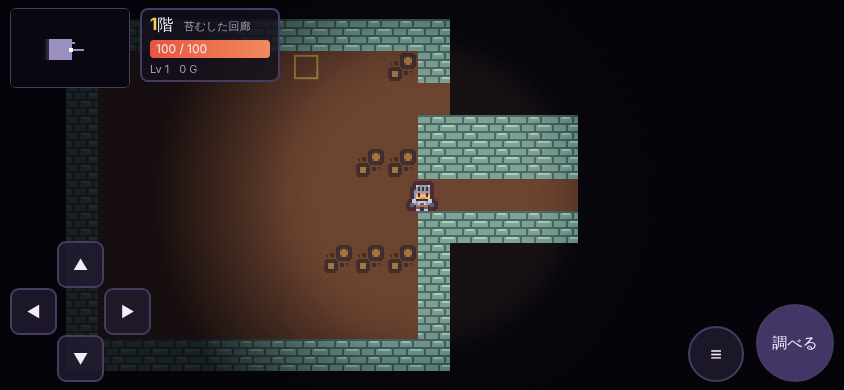
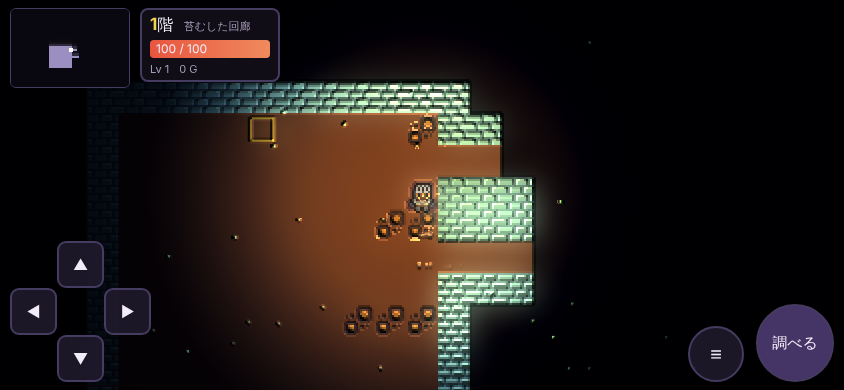
v33：画面の質感アップ（光と影の凹凸・光のにじみ・地域ごとの空気の粒・歩くほこり・お宝のきらめき）。演出「少なめ」と重い端末では自動で切る
Claude-Session: https://claude.ai/code/session_01Sd1PUqjmfoFVwLqDungXeB

diff --git a/js/ui.js b/js/ui.js
@@ -195,7 +195,7 @@ function settings(from) {
 document.addEventListener('input', e => { const k = e.target.dataset && e.target.dataset.set; if (!k) return; opt[k] = (+e.target.value) / 100; opt.sound = true; saveOpt(); if (k === 'bgm' && MUS.el) MUS.el.volume = bgmVol(); if (k === 'bgm' && !MUS.el) { MUS.cur = null; musicTick(); } });
 document.addEventListener('change', e => { if (e.target.dataset && e.target.dataset.setlang) { L10N.lang = opt.lang = e.target.value; saveOpt(); location.reload(); } });
 function fxLow() { return opt.fx === 'low'; }
-function applyOpt() { document.body.classList.toggle('lowfx', fxLow()); document.body.classList.toggle('noshake', opt.shake === false); }
+function applyOpt() { if (window.FX) FX.on = FX.ok && !fxLow() && !FX.auto; document.body.classList.toggle('lowfx', fxLow()); document.body.classList.toggle('noshake', opt.shake === false); }
 
 /* ---------- はじめの案内（行商人がしゃべる。くどくならないように1回ずつ） ---------- */
 const TUT = {
@@ -373,7 +373,7 @@ function titleAnim(now) {
 }
 function render(now) {
   requestAnimationFrame(render);
-  if (!run) { if (TB.on && ui.scr !== 'ending') titleAnim(now); return; }
+  if (!run) { if (TB.on && ui.scr !== 'ending') { titleAnim(now); if (window.FX) FX.frame(cv, { bloom: 1.1, vig: 0.45, th: 0.55 }); } else if (window.FX) FX.hide(); return; }
   if (!sheet.complete) return;
   let ax = run.x, ay = run.y;
   if (anim) { const t = Math.min(1, (now - anim.t0) / 110); ax = anim.x0 + (run.x - anim.x0) * t; ay = anim.y0 + (run.y - anim.y0) * t; if (t >= 1) anim = null; dirty = true; }
@@ -418,9 +418,45 @@ function render(now) {
   const fk = fxLow() ? 0 : Math.sin(now / 130) * 0.15 + Math.sin(now / 47) * 0.08, r0 = TS * (3.2 + fk), r1 = TS * (8.5 + fk);
   const grd = g.createRadialGradient(W / 2, H / 2, r0, W / 2, H / 2, r1); grd.addColorStop(0, 'rgba(255,170,80,.05)'); grd.addColorStop(0.35, 'rgba(0,0,0,.15)'); grd.addColorStop(1, 'rgba(4,3,8,.82)'); g.fillStyle = grd; g.fillRect(0, 0, W, H);
   if (!fxLow()) dirty = true;
+  if (!fxLow()) drawParticles(now, cx, cy, fl, bits, bi, x0, y0, x1, y1);
   drawMini(fl, bits);
+  if (window.FX) { const t = B.tint || [1, 1, 1]; FX.frame(cv, { px: TS / 16, bump: 1.0, bloom: 1.0, th: 0.5, vig: 0.42, tint: [1 + (t[0] - 1) * 0.18, 1 + (t[1] - 1) * 0.18, 1 + (t[2] - 1) * 0.18] }); }
 }
 function tileColor(v, i) { const T = IL.T; return v === T.BOSS ? '#b03048' : v === T.GATE ? '#ff6a4d' : v === T.SAFE ? '#4fd17a' : v === T.PED ? (run.opened[i] ? '#666' : '#f2d14b') : '#9a8fc0'; }
+/* 粒の演出（見た目だけ）：地域ごとの空気の粒・歩いたときのほこり・お宝のきらめき */
+const PT = { amb: [], fx: [], lastT: 0 };
+const AMB = [ // 地域ごと：色・動き（上へ/下へ/ただよう）・大きさ
+  { c: [150, 230, 120], v: -0.15, s: 1.2, tw: 1 }, { c: [235, 210, 150], v: 0.02, s: 1.0, tw: 0 }, { c: [150, 210, 255], v: -0.05, s: 1.3, tw: 1 },
+  { c: [255, 150, 60], v: -0.55, s: 1.3, tw: 1 }, { c: [230, 240, 255], v: 0.35, s: 1.4, tw: 0 }, { c: [140, 220, 90], v: -0.3, s: 1.5, tw: 0 },
+  { c: [255, 220, 120], v: 0.05, s: 0.9, tw: 1 }, { c: [180, 120, 255], v: -0.2, s: 1.6, tw: 0 }, { c: [255, 240, 200], v: -0.05, s: 1.1, tw: 1 }, { c: [235, 235, 255], v: -0.1, s: 1.0, tw: 1 }];
+function dust(x, y) { if (fxLow()) return; for (let k = 0; k < 5; k++) PT.fx.push({ x: x + 0.5 + (Math.random() - 0.5) * 0.5, y: y + 0.85, vx: (Math.random() - 0.5) * 0.8, vy: -Math.random() * 0.35, life: 0.45 + Math.random() * 0.25, age: 0, c: [190, 170, 150], s: 1.5 + Math.random(), add: false }); }
+function sparkle(x, y, c) { PT.fx.push({ x: x + 0.15 + Math.random() * 0.7, y: y + 0.1 + Math.random() * 0.6, vx: 0, vy: -0.25, life: 0.7, age: 0, c, s: 1.6, add: true, star: true }); }
+function drawParticles(now, cx, cy, fl, bits, bi, x0, y0, x1, y1) {
+  const dt = Math.min(0.05, (now - (PT.lastT || now)) / 1000); PT.lastT = now; const A = AMB[bi] || AMB[0], u = TS / 16;
+  while (PT.amb.length < 26) PT.amb.push({ x: run.x + (Math.random() - 0.5) * 18, y: run.y + (Math.random() - 0.5) * 12, ph: Math.random() * 6.3, sp: 0.6 + Math.random() * 0.8 });
+  g.save(); g.globalCompositeOperation = 'lighter';
+  for (const p of PT.amb) {
+    p.y += A.v * p.sp * dt; p.x += Math.sin(now / 1400 + p.ph) * 0.12 * dt * 4;
+    if (Math.abs(p.x - run.x) > 10 || Math.abs(p.y - run.y) > 7) { p.x = run.x + (Math.random() - 0.5) * 18; p.y = run.y + (A.v < 0 ? 6 : A.v > 0 ? -6 : (Math.random() - 0.5) * 12); }
+    const a = 0.35 + 0.35 * (A.tw ? Math.max(0, Math.sin(now / 300 + p.ph * 3)) : Math.sin(now / 900 + p.ph) * 0.5 + 0.5), r = u * A.s * (0.7 + p.sp * 0.5);
+    g.fillStyle = `rgba(${A.c[0]},${A.c[1]},${A.c[2]},${a.toFixed(2)})`; g.fillRect(cx + p.x * TS - r / 2, cy + p.y * TS - r / 2, r, r);
+  }
+  // お宝のきらめき（開いていない台座・バッグ・ボスの宝箱）とほのかな光
+  const opened = pr.bagsOpen || {}, glow = (x, y, c, k) => { const px = cx + (x + 0.5) * TS, py = cy + (y + 0.5) * TS, gr = g.createRadialGradient(px, py, 0, px, py, TS * k); gr.addColorStop(0, `rgba(${c[0]},${c[1]},${c[2]},.35)`); gr.addColorStop(1, 'rgba(0,0,0,0)'); g.fillStyle = gr; g.fillRect(px - TS * k, py - TS * k, TS * 2 * k, TS * 2 * k); };
+  for (let y = y0; y <= y1; y++) for (let x = x0; x <= x1; x++) { const i = y * fl.W + x; if (!bits[i]) continue; const v = fl.t[i];
+    if (v === IL.T.PED && !run.opened[i]) { glow(x, y, [255, 210, 90], 0.9 + 0.1 * Math.sin(now / 400 + i)); if (Math.random() < dt * 1.6) sparkle(x, y, [255, 230, 140]); }
+    else if (v === IL.T.GATE) glow(x, y, [255, 90, 70], 0.8 + 0.15 * Math.sin(now / 500));
+    else if (v === IL.T.SAFE) glow(x, y, [90, 255, 140], 0.75); }
+  for (const b of ui.bags) if (!opened[b.id] && bits[b.y * fl.W + b.x] && b.x >= x0 && b.x <= x1 && b.y >= y0 && b.y <= y1) { glow(b.x, b.y, [200, 160, 255], 0.9); if (Math.random() < dt * 1.4) sparkle(b.x, b.y, [220, 190, 255]); }
+  if (run.bossChest && !run.bossChest.opened) { const c = run.bossChest.i, x = c % fl.W, y = (c / fl.W) | 0; if (bits[c]) { glow(x, y, [255, 220, 120], 1.1); if (Math.random() < dt * 3) sparkle(x, y, [255, 240, 170]); } }
+  // ほこり・きらめき
+  for (const p of PT.fx) { p.age += dt; p.x += p.vx * dt; p.y += p.vy * dt; const k = 1 - p.age / p.life; if (k <= 0) continue;
+    g.globalCompositeOperation = p.add ? 'lighter' : 'source-over'; const r = u * p.s * (p.star ? 1 : 0.6 + k * 0.6), px = cx + p.x * TS, py = cy + p.y * TS;
+    g.fillStyle = `rgba(${p.c[0]},${p.c[1]},${p.c[2]},${(p.add ? k : k * 0.55).toFixed(2)})`;
+    if (p.star) { g.fillRect(px - r * 1.5, py - u * 0.4, r * 3, u * 0.8); g.fillRect(px - u * 0.4, py - r * 1.5, u * 0.8, r * 3); } else g.fillRect(px - r / 2, py - r / 2, r, r); }
+  PT.fx = PT.fx.filter(p => p.age < p.life);
+  g.restore();
+}
 let miniKey = '';
 function drawMini(fl, bits) { // 自分のまわりだけ（タップで全体）
   const k = 3, vw = mini.width / k, vh = mini.height / k, ox = Math.round(run.x - vw / 2), oy = Math.round(run.y - vh / 2);
@@ -455,7 +491,7 @@ function afterAct() {
 function act(dir) {
   if (!run || ui.scr || run.battle || run.prompt || run.over) return;
   const ox = run.x, oy = run.y; X(['mv', dir]);
-  if (run.x !== ox || run.y !== oy) { anim = { x0: ox, y0: oy, t0: performance.now() }; if (run.turn % 2) sfx('step', 0.15); watchLive(); }
+  if (run.x !== ox || run.y !== oy) { anim = { x0: ox, y0: oy, t0: performance.now() }; dust(ox, oy); if (run.turn % 2) sfx('step', 0.15); watchLive(); }
   afterAct();
 }
 function bagNear(maxD) { const op = pr.bagsOpen || {}; let best = null; for (const b of ui.bags) { const d = Math.abs(b.x - run.x) + Math.abs(b.y - run.y); if (d <= (maxD == null ? 1 : maxD) && (!best || d < best.d || (op[best.b.id] && !op[b.id]))) best = { b, d }; } return best && best.b; }
@@ -928,6 +964,7 @@ async function boot() {
   if (/[?&]reset=1/.test(location.search)) { try { ['il_state_v1', 'il_salesgot', 'il_jn'].forEach(k => localStorage.removeItem(k)); } catch (e) {} history.replaceState(null, '', location.pathname); } // この端末のデータだけ消す
   try { opt = Object.assign(opt, JSON.parse(localStorage.getItem(SAVE_O) || '{}')); } catch (e) {}
   L10N.lang = opt.lang || L10N.pick(); document.documentElement.lang = L10N.lang; L10N.observe(); L10N.apply(); applyOpt();
+  if (window.FX) { FX.init(cv); applyOpt(); }
   resize(); requestAnimationFrame(render); drawIdle();
   drawTitleBg(); show('<div class="win title"><div class="logo">INTEGRA LAYER<small>インテグラ・レイヤー</small></div><p class="mute">つないでいます…</p></div>');
   const timeout = new Promise(r => setTimeout(() => r(false), 7000));

diff --git a/js/fx.js b/js/fx.js
@@ -1,0 +1,83 @@
+/* インテグラ・レイヤー  画面の仕上げ（光と影・光のにじみ・周辺の暗さ）
+   ゲームの計算には一切さわらない。#view に描いた絵を WebGL で仕上げて、上に重ねて見せるだけ。
+   WebGL が使えない・「演出：少なめ」のときは何もしない（元の絵がそのまま見える）。 */
+(function () {
+'use strict';
+const FX = { on: false };
+let gl, cv, prog = {}, tex, fbA, fbB, texA, texB, quad, bw = 0, bh = 0, W = 0, H = 0, slow = 0, last = 0;
+
+const VS = 'attribute vec2 p;varying vec2 v;void main(){v=p*0.5+0.5;gl_Position=vec4(p,0.,1.);}';
+const BRIGHT = `precision mediump float;varying vec2 v;uniform sampler2D t;uniform float th;
+void main(){vec3 c=texture2D(t,v).rgb;float l=max(max(c.r,c.g),c.b);gl_FragColor=vec4(c*smoothstep(th,th+0.25,l),1.);}`;
+const BLUR = `precision mediump float;varying vec2 v;uniform sampler2D t;uniform vec2 d;
+void main(){vec3 s=texture2D(t,v).rgb*0.227;
+s+=(texture2D(t,v+d*1.38).rgb+texture2D(t,v-d*1.38).rgb)*0.316;
+s+=(texture2D(t,v+d*3.23).rgb+texture2D(t,v-d*3.23).rgb)*0.07;gl_FragColor=vec4(s,1.);}`;
+const COMP = `precision mediump float;varying vec2 v;uniform sampler2D t,b;uniform vec2 res;uniform float px,bump,bloom,vig,tm;uniform vec2 lp;uniform vec3 tint;
+float L(vec2 o){vec3 c=texture2D(t,v+o/res).rgb;return dot(c,vec3(.299,.587,.114));}
+void main(){
+  vec3 c=texture2D(t,v).rgb;
+  if(bump>0.){
+    float dx=L(vec2(px,0.))-L(vec2(-px,0.)),dy=L(vec2(0.,px))-L(vec2(0.,-px));
+    vec3 n=normalize(vec3(-dx*4.,-dy*4.,1.));
+    vec2 fp=v*res;vec3 ld=normalize(vec3(lp-fp,px*26.));
+    float sh=1.+(dot(n,ld)-ld.z)*bump;
+    float dist=length(lp-fp)/(px*16.);
+    float spec=pow(max(dot(reflect(-ld,n),vec3(0.,0.,1.)),0.),18.)*0.7*smoothstep(7.,1.5,dist)*step(0.02,abs(dx)+abs(dy));
+    c=c*sh+spec*vec3(1.,.8,.55);
+    float fall=smoothstep(9.,1.,dist);
+    c*=mix(vec3(.62,.7,.95),vec3(1.18,1.04,.86),fall);
+  }
+  c+=texture2D(b,v).rgb*bloom;
+  float g=dot(c,vec3(.299,.587,.114));c=mix(vec3(g),c,1.12);c=(c-.5)*1.06+.5;c*=tint;
+  vec2 q=v-.5;c*=1.-vig*smoothstep(.35,.8,length(q*vec2(res.x/res.y,1.)*.85));
+  gl_FragColor=vec4(c,1.);
+}`;
+
+function sh(type, src) { const s = gl.createShader(type); gl.shaderSource(s, src); gl.compileShader(s); if (!gl.getShaderParameter(s, gl.COMPILE_STATUS)) throw new Error(gl.getShaderInfoLog(s)); return s; }
+function mk(fs) { const p = gl.createProgram(); gl.attachShader(p, sh(gl.VERTEX_SHADER, VS)); gl.attachShader(p, sh(gl.FRAGMENT_SHADER, fs)); gl.bindAttribLocation(p, 0, 'p'); gl.linkProgram(p); if (!gl.getProgramParameter(p, gl.LINK_STATUS)) throw new Error('link'); const u = {}; const n = gl.getProgramParameter(p, gl.ACTIVE_UNIFORMS); for (let i = 0; i < n; i++) { const a = gl.getActiveUniform(p, i); u[a.name] = gl.getUniformLocation(p, a.name); } return { p, u }; }
+function mkTex(lin) { const t = gl.createTexture(); gl.bindTexture(gl.TEXTURE_2D, t); const f = lin ? gl.LINEAR : gl.NEAREST; gl.texParameteri(gl.TEXTURE_2D, gl.TEXTURE_MIN_FILTER, f); gl.texParameteri(gl.TEXTURE_2D, gl.TEXTURE_MAG_FILTER, f); gl.texParameteri(gl.TEXTURE_2D, gl.TEXTURE_WRAP_S, gl.CLAMP_TO_EDGE); gl.texParameteri(gl.TEXTURE_2D, gl.TEXTURE_WRAP_T, gl.CLAMP_TO_EDGE); return t; }
+function mkFb(t, w, h) { gl.bindTexture(gl.TEXTURE_2D, t); gl.texImage2D(gl.TEXTURE_2D, 0, gl.RGBA, w, h, 0, gl.RGBA, gl.UNSIGNED_BYTE, null); const f = gl.createFramebuffer(); gl.bindFramebuffer(gl.FRAMEBUFFER, f); gl.framebufferTexture2D(gl.FRAMEBUFFER, gl.COLOR_ATTACHMENT0, gl.TEXTURE_2D, t, 0); return f; }
+
+FX.init = view => {
+  try {
+    cv = document.createElement('canvas'); cv.id = 'fx'; view.after(cv);
+    gl = cv.getContext('webgl', { alpha: false, antialias: false, premultipliedAlpha: false, preserveDrawingBuffer: false });
+    if (!gl) throw new Error('no webgl');
+    prog.br = mk(BRIGHT); prog.bl = mk(BLUR); prog.co = mk(COMP);
+    quad = gl.createBuffer(); gl.bindBuffer(gl.ARRAY_BUFFER, quad); gl.bufferData(gl.ARRAY_BUFFER, new Float32Array([-1, -1, 1, -1, -1, 1, 1, 1]), gl.STATIC_DRAW);
+    gl.enableVertexAttribArray(0); gl.vertexAttribPointer(0, 2, gl.FLOAT, false, 0, 0);
+    tex = mkTex(false); texA = mkTex(true); texB = mkTex(true);
+    gl.pixelStorei(gl.UNPACK_FLIP_Y_WEBGL, true);
+    FX.ok = true;
+  } catch (e) { FX.ok = false; if (cv) cv.remove(); cv = null; }
+};
+function size(w, h) {
+  if (w === W && h === H) return; W = w; H = h; cv.width = w; cv.height = h;
+  bw = Math.max(1, w >> 2); bh = Math.max(1, h >> 2); fbA = mkFb(texA, bw, bh); fbB = mkFb(texB, bw, bh);
+}
+function pass(pr, fb, w, h) { gl.useProgram(pr.p); gl.bindFramebuffer(gl.FRAMEBUFFER, fb); gl.viewport(0, 0, w, h); return pr.u; }
+/* src：#view のキャンバス。o：{ px（ドット1つ分の画面上の大きさ）, bump（凹凸の強さ。0で無し）, bloom, vig, tint:[r,g,b] } */
+FX.frame = (src, o) => {
+  if (!FX.ok || !FX.on) { if (cv) cv.style.display = 'none'; return; }
+  const t0 = performance.now();
+  cv.style.display = 'block'; size(src.width, src.height);
+  gl.activeTexture(gl.TEXTURE0); gl.bindTexture(gl.TEXTURE_2D, tex); gl.texImage2D(gl.TEXTURE_2D, 0, gl.RGBA, gl.RGBA, gl.UNSIGNED_BYTE, src);
+  let u = pass(prog.br, fbA, bw, bh); gl.uniform1i(u.t, 0); gl.uniform1f(u.th, o.th || 0.62); gl.drawArrays(gl.TRIANGLE_STRIP, 0, 4);
+  for (let k = 0; k < 2; k++) {
+    gl.bindTexture(gl.TEXTURE_2D, texA); u = pass(prog.bl, fbB, bw, bh); gl.uniform1i(u.t, 0); gl.uniform2f(u.d, (1 + k) / bw, 0); gl.drawArrays(gl.TRIANGLE_STRIP, 0, 4);
+    gl.bindTexture(gl.TEXTURE_2D, texB); u = pass(prog.bl, fbA, bw, bh); gl.uniform1i(u.t, 0); gl.uniform2f(u.d, 0, (1 + k) / bh); gl.drawArrays(gl.TRIANGLE_STRIP, 0, 4);
+  }
+  u = pass(prog.co, null, W, H);
+  gl.activeTexture(gl.TEXTURE0); gl.bindTexture(gl.TEXTURE_2D, tex); gl.uniform1i(u.t, 0);
+  gl.activeTexture(gl.TEXTURE1); gl.bindTexture(gl.TEXTURE_2D, texA); gl.uniform1i(u.b, 1);
+  gl.uniform2f(u.res, W, H); gl.uniform1f(u.px, Math.max(1, o.px || 3)); gl.uniform1f(u.bump, o.bump || 0); gl.uniform1f(u.bloom, o.bloom == null ? 0.9 : o.bloom);
+  gl.uniform1f(u.vig, o.vig == null ? 0.35 : o.vig); gl.uniform1f(u.tm, t0 / 1000); gl.uniform2f(u.lp, W / 2, H / 2);
+  const ti = o.tint || [1, 1, 1]; gl.uniform3f(u.tint, ti[0], ti[1], ti[2]);
+  gl.drawArrays(gl.TRIANGLE_STRIP, 0, 4); gl.activeTexture(gl.TEXTURE0);
+  // 重い端末では自動で切る（3秒続けて1枚に40ms以上かかったら）
+  const dt = performance.now() - t0; if (dt > 40) { if (!slow) slow = t0; else if (t0 - slow > 3000) { FX.on = false; FX.auto = true; cv.style.display = 'none'; } } else slow = 0;
+};
+FX.hide = () => { if (cv) cv.style.display = 'none'; };
+window.FX = FX;
+})();

diff --git a/index.html b/index.html
@@ -6,7 +6,7 @@
 <meta name="theme-color" content="#14111c">
 <title>インテグラ・レイヤー</title>
 <meta name="description" content="倒れた誰かの欠片をつないで、全員で100階の塔を上るローグライク。">
-<link rel="stylesheet" href="css/style.css?v=32">
+<link rel="stylesheet" href="css/style.css?v=33">
 <link rel="icon" href="img/icon.png">
 <link rel="manifest" href="manifest.json">
 <link rel="apple-touch-icon" href="img/icon512.png">
@@ -50,14 +50,15 @@
   <div id="tut" hidden></div>
   <div id="rotate"><div class="ph"></div><p>スマホを<b>横向き</b>にして遊んでね</p><p class="small mute">画面の向きの固定（ロック）をはずしてから回してください</p></div>
 </div>
-<script>window.IL_BUILD = '32';</script>
+<script>window.IL_BUILD = '33';</script>
 <script src="https://www.gstatic.com/firebasejs/10.12.2/firebase-app-compat.js"></script>
 <script src="https://www.gstatic.com/firebasejs/10.12.2/firebase-auth-compat.js"></script>
 <script src="https://www.gstatic.com/firebasejs/10.12.2/firebase-database-compat.js"></script>
-<script src="js/firebase-config.js?v=32"></script>
-<script src="js/core.js?v=32"></script>
-<script src="js/i18n.js?v=32"></script>
-<script src="js/net.js?v=32"></script>
-<script src="js/ui.js?v=32"></script>
+<script src="js/firebase-config.js?v=33"></script>
+<script src="js/core.js?v=33"></script>
+<script src="js/i18n.js?v=33"></script>
+<script src="js/net.js?v=33"></script>
+<script src="js/fx.js?v=33"></script>
+<script src="js/ui.js?v=33"></script>
 </body>
 </html>

diff --git a/css/style.css b/css/style.css
@@ -5,6 +5,7 @@ html,body{margin:0;height:100%;background:var(--bg);color:var(--ink);font-family
 button{font:inherit;color:inherit;touch-action:manipulation}
 #app{position:fixed;inset:0}
 #view{position:absolute;inset:0;width:100%;height:100%;image-rendering:pixelated;display:block}
+#fx{position:absolute;inset:0;width:100%;height:100%;display:none;pointer-events:none;image-rendering:pixelated}
 /* HUD */
 #hud{position:absolute;left:0;right:0;top:0;display:flex;gap:10px;padding:max(8px,env(safe-area-inset-top)) 10px 0;pointer-events:none;align-items:flex-start}
 #hud[hidden]{display:none}
